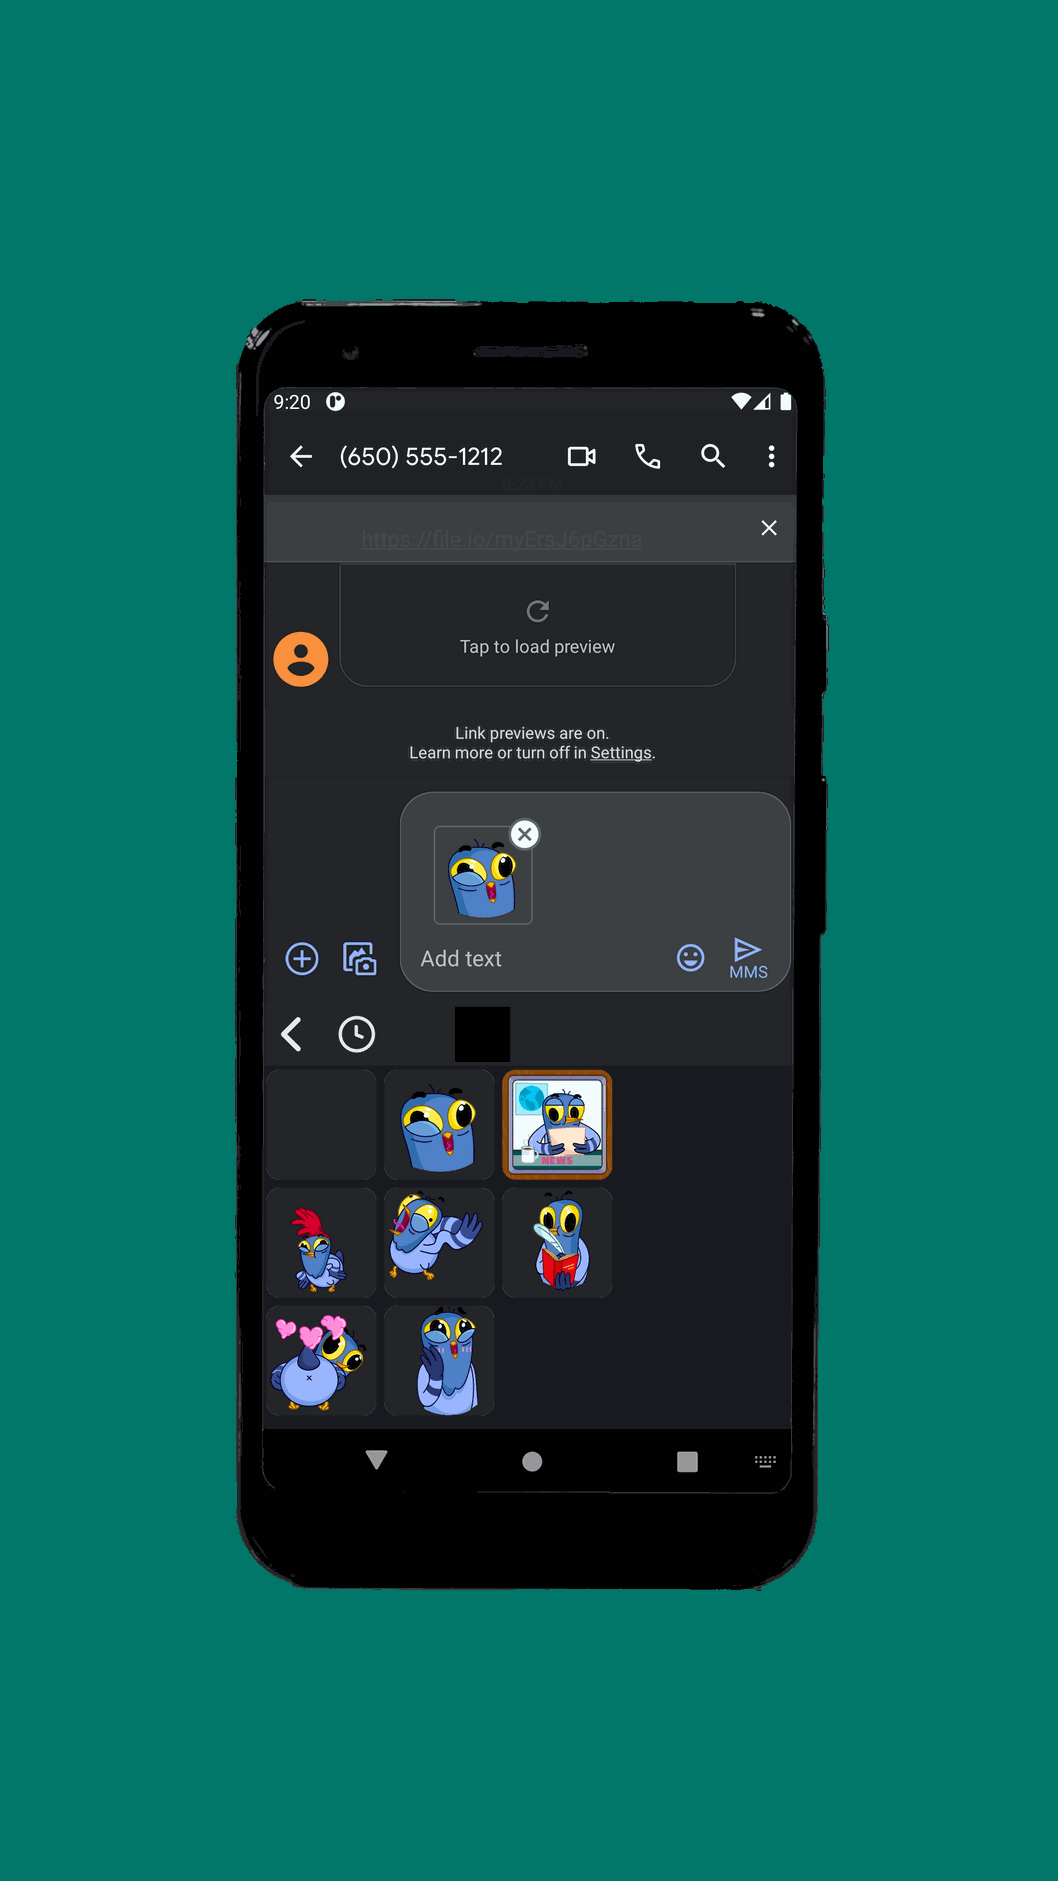
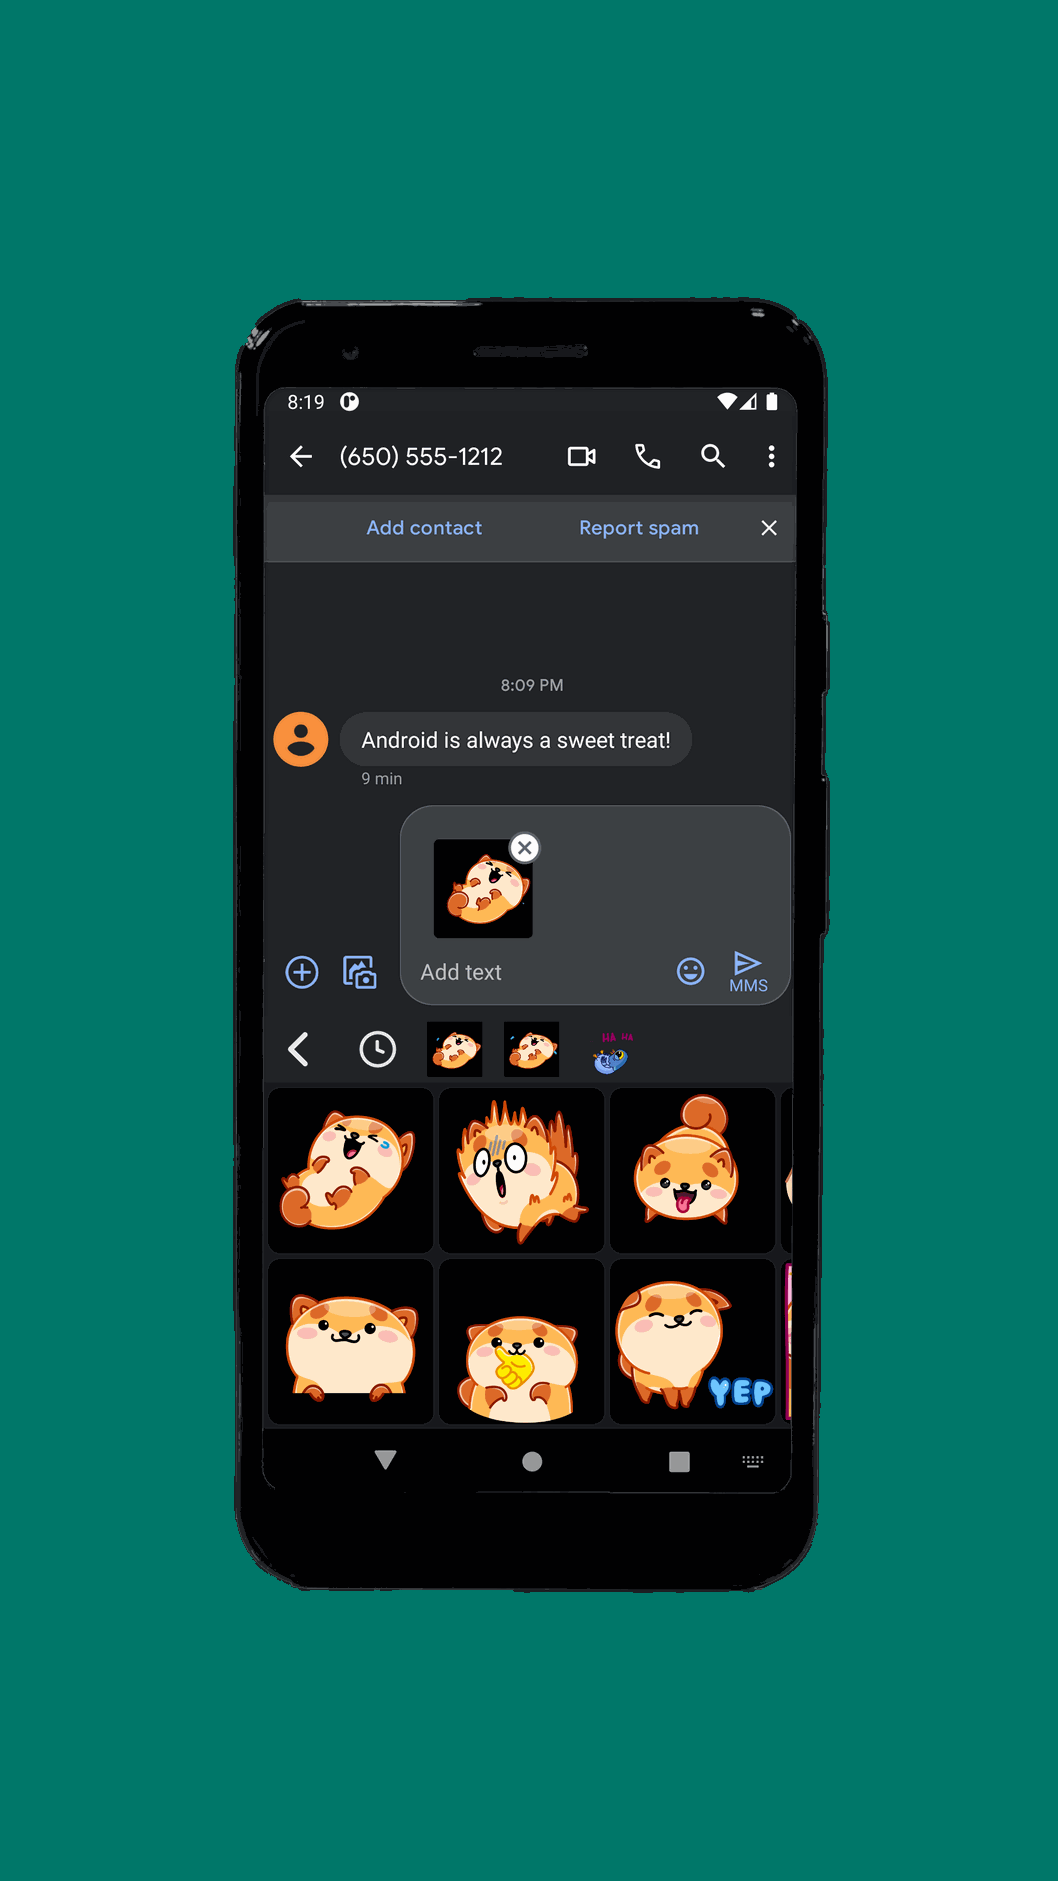
update tutorial + screenshots

diff --git a/TUTORIAL.md b/TUTORIAL.md
@@ -1,11 +1,8 @@
 
-
-
 # Tutorial
 
 See below for a step-by-step tutorial on how to use EweSticker with your existing
 sticker collection.
-
 
 ## Step 1 - Create Sticker Directory (and transfer to device)
 
@@ -28,11 +25,34 @@ convenient way to do this.
 
 ## Step 2 - Download EweSticker
 
-The current option is to Download the APK, however, I plan to make this available
-on Google Play + F-droid.
+### Get it on F-Droid
 
+1. Open the F-Droid app
+2. Search for EweSticker
+
+**Or**
+
+[<img src="readme-assets/badges/f-droid-download.png"
+alt="Get it on F-Droid" height="80">](https://f-droid.org/en/packages/com.fredhappyface.ewesticker/)
+
+Follow the link to the listing on F-Droid by clicking on the badge above,
+then download/ install
+
+### Get it on Google Play
+
+1. Open the Google Play app
+2. Search for EweSticker
+
+**Or**
+
+[<img src="readme-assets/badges/google-play-download.png"
+alt="Get it on Google Play" height="80">](https://play.google.com/store/apps/details?id=com.fredhappyface.ewesticker)
+
+Follow the link to the listing on Google Play by clicking on the badge above,
+then download/ install
 
 ### Download the APK
+
 1. For releases, navigate to the /app/release directory. For debug, navigate to /app/debug
 2. Select the debug or release APK depending on your preference. Note that the
 filenames are in the form: app-(debug/release)_(version)_yyyy-mm-dd.apk (I would recommend
@@ -48,31 +68,27 @@ select the preferred version.
 
 ## Step 3 - Select Directory with EweSticker (and wait...)
 
+1. Click the "CHOOSE STICKER SOURCE DIRECTORY" button
 
-1. Click the "CHOOSE A NEW STICKER SOURCE DIRECTORY" button
-
-	<img src="readme-assets/tutorial/step3.png" alt="Step 1" width="300">
+	<img src="readme-assets/tutorial/step3.png" alt="Step 3.1" width="300">
 
 2. Select the sticker directory created in step 1
 
-	<img src="readme-assets/tutorial/step3_2.png" alt="Step 1" width="300">
-
+	<img src="readme-assets/tutorial/step3_2.png" alt="Step 3.2" width="300">
 
 ## Step 4 - Activate the keyboard
 
 - Search 'keyboard' in settings and select 'On-screen keyboard', then '+ Manage
 	on-screen keyboards' and toggle EweSticker on.
 
-	<img src="readme-assets/tutorial/step4.png" alt="Step 1" width="300">
-
+	<img src="readme-assets/tutorial/step4.png" alt="Step 4" width="300">
 
 ## Step 5 - Send Stickers in your favourite apps
 
 1. Tap the keyboard switcher icon and select EweSticker
 
-	<img src="readme-assets/tutorial/step5.png" alt="Step 1" width="300">
-
+	<img src="readme-assets/tutorial/step5.png" alt="Step 5" width="300">
 
 2. Find and send a sticker of your choosing
 
-	<img src="readme-assets/tutorial/step5_2.png" alt="Step 1" width="300">
+	<img src="readme-assets/tutorial/step5_2.png" alt="Step 5" width="300">

diff --git a/CHANGELOG.md b/CHANGELOG.md
@@ -11,7 +11,8 @@ patch-level version changes can be found in [commit messages](../../commits/mast
 - Use GridLayout in place of linear views
 - Refactor and code clean up (reduced ImageKeyboard.kt by about 17% sloc, reduced MainActivity.kt by about 18% sloc)
 - Update UI (now more material you inspired)
-- TODO update screenshots with new phone frame
+- Update screenshots
+- Update tutorial
 
 ## 20211011 - 2021/10/11
 
